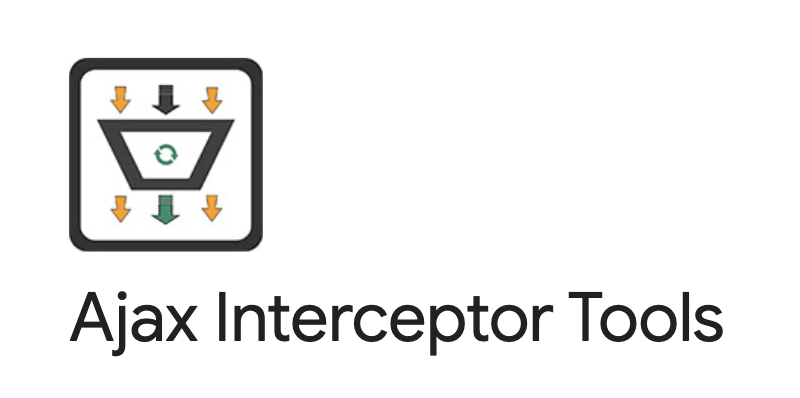
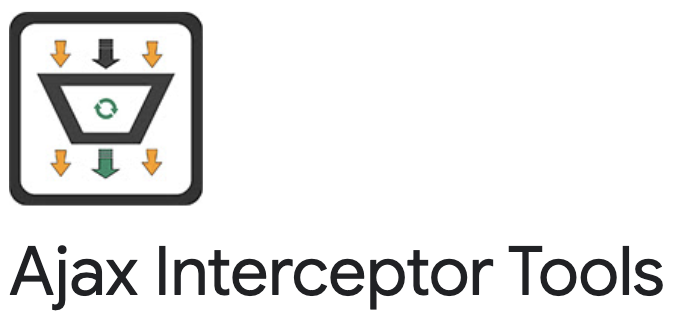
feat: README.md

Changed region(s): [[0.0, 0.0312, 0.33, 0.6562], [0.0, 0.7188, 0.96, 0.9688]]

diff --git a/README.md b/README.md
@@ -1,5 +1,7 @@
 # ajax-tools
-![ajax-tools.png](./icons/ajax-tools.png)  
+
+<img src="https://github.com/PengChen96/ajax-tools/blob/master/icons/ajax-tools.png" width="300">  
+
 [![](https://img.shields.io/chrome-web-store/v/kphegobalneikdjnboeiheiklpbbhncm.svg?logo=Google%20Chrome&logoColor=white&color=blue&style=flat-square)](https://chrome.google.com/webstore/detail/ajax-interceptor-tools/kphegobalneikdjnboeiheiklpbbhncm)   
 一个修改ajax请求返回结果的chrome插件。  
 
